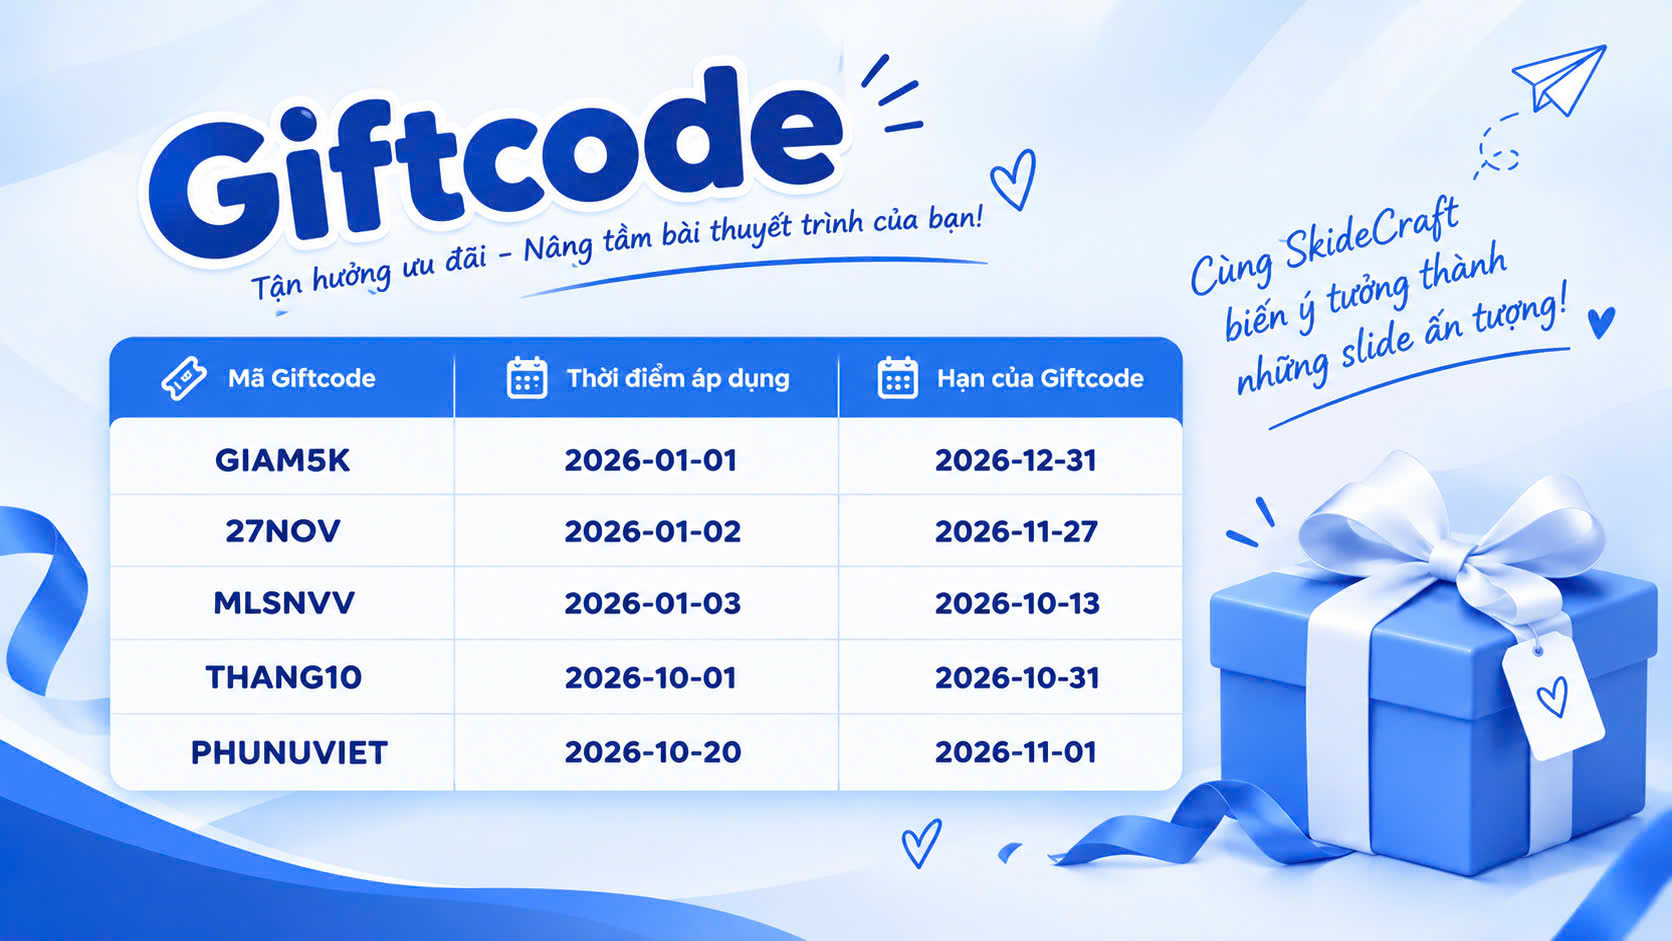
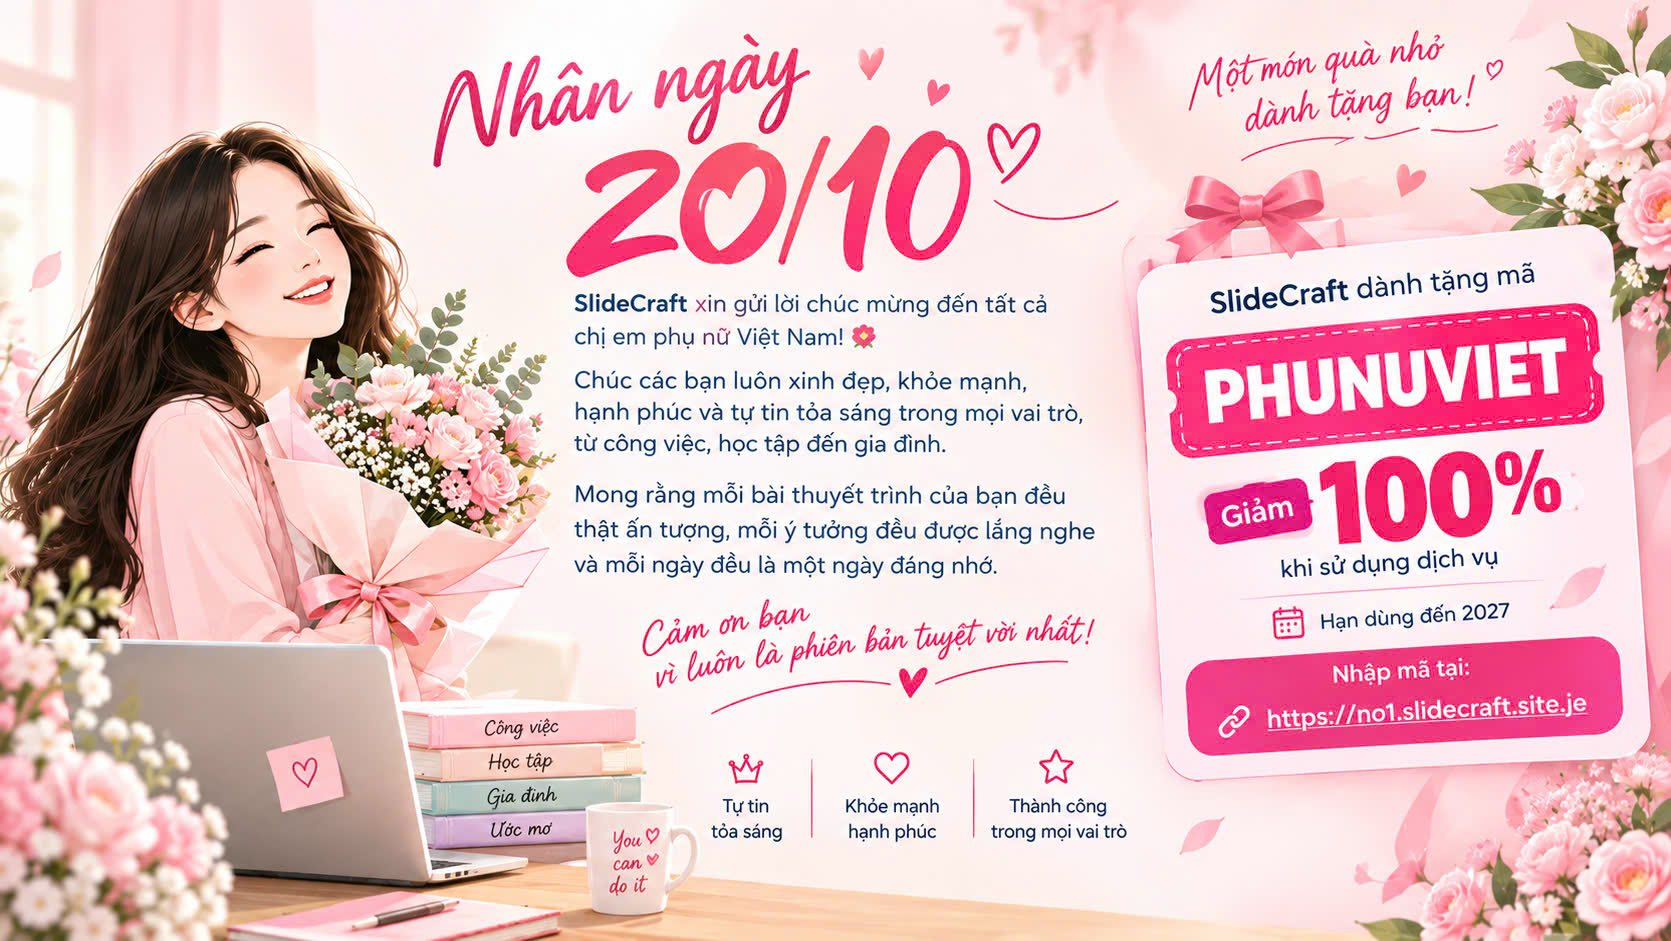
Add files via upload

diff --git a/index.html b/index.html
@@ -34,14 +34,12 @@ dialog{border:0;padding:0;background:transparent;max-width:none;max-height:none;
 #festiveDialog[open]{animation:fvIn .38s cubic-bezier(.2,.9,.3,1.1)}
 @keyframes fvIn{from{opacity:0;transform:translateY(18px) scale(.96)}to{opacity:1;transform:none}}
 .fv-box{position:relative;width:min(900px,calc(100vw - 24px));max-height:calc(100dvh - 24px);overflow-y:auto;overscroll-behavior:contain;background:#fff;border-radius:22px;box-shadow:0 30px 80px -10px rgba(190,24,93,.45);border:1px solid #fbcfe8}
-.fv-img{display:block;width:100%;height:auto;border-radius:22px 22px 0 0;cursor:pointer}
+.fv-img{display:block;width:100%;height:auto;border-radius:22px 22px 0 0}
 .fv-close{position:absolute;top:10px;right:10px;width:40px;height:40px;border-radius:50%;border:0;background:rgba(255,255,255,.92);color:#9d174d;font-size:1.5rem;line-height:1;cursor:pointer;box-shadow:0 4px 14px rgba(0,0,0,.18);display:flex;align-items:center;justify-content:center;transition:transform .18s,background-color .18s}
 .fv-close:hover{transform:scale(1.08);background:#fff}
-.fv-foot{display:flex;align-items:center;justify-content:space-between;gap:12px 20px;flex-wrap:wrap;padding:14px 20px;background:linear-gradient(135deg,#fff1f7,#ffe4f0)}
+.fv-foot{display:flex;align-items:center;justify-content:center;padding:12px 20px;background:linear-gradient(135deg,#fff1f7,#ffe4f0)}
 .fv-skip{display:flex;align-items:center;gap:8px;color:#9d174d;font-size:.9rem;cursor:pointer}
 .fv-skip input{width:17px;height:17px;accent-color:#ec4899}
-.fv-cta{background:linear-gradient(135deg,#ec4899,#e11d6a);color:#fff;box-shadow:0 10px 26px #e11d6a40}
-@media(max-width:560px){.fv-foot{flex-direction:column-reverse;align-items:stretch;text-align:center}.fv-skip{justify-content:center}.fv-cta{width:100%}}
 @media(prefers-reduced-motion:reduce){#festiveDialog[open]{animation:none}}
 </style>
 </head>
@@ -77,11 +75,11 @@ dialog{border:0;padding:0;background:transparent;max-width:none;max-height:none;
 </div>
 <div class="total-box"><div class="total-row"><span>Giá tạm tính:</span><strong id="initialTotal">5.000đ</strong></div><div class="total-row" id="discountRow" hidden><span>Giảm giá:</span><strong id="discountAmount">0đ</strong></div><div class="total-row final"><span>Thành tiền dự kiến:</span><strong id="finalTotal">5.000đ</strong></div></div>
 <p class="notice">Giá hiển thị là giá dự kiến. Vui lòng chờ email xác nhận trước khi thanh toán.</p><button class="btn primary submit-btn" type="submit" id="submitBtn">Gửi yêu cầu đặt hàng</button><div class="error" id="error" role="alert" tabindex="-1"></div><div class="success" id="success" role="status" tabindex="-1"></div></form></div></dialog>
-<dialog id="festiveDialog" aria-label="Ưu đãi 20/10 - mã PHUNUVIET">
+<dialog id="festiveDialog" aria-label="Thông báo ưu đãi">
 <div class="fv-box">
 <button type="button" class="fv-close" id="fvClose" aria-label="Đóng quảng cáo">&times;</button>
-<img class="fv-img" id="fvImg" src="festival-2010.jpg" width="1671" height="941" alt="Nhân ngày 20/10, SlideCraft tặng mã PHUNUVIET giảm 100% khi sử dụng dịch vụ, hạn dùng đến 2027">
-<div class="fv-foot"><label class="fv-skip"><input type="checkbox" id="fvSkip"><span>Không hiện lại hôm nay</span></label><button type="button" class="btn fv-cta" id="fvCta">🎁 Dùng mã PHUNUVIET ngay</button></div>
+<img class="fv-img" id="fvImg" src="festival-2010.jpg" width="1671" height="941" alt="Thông báo ưu đãi từ SlideCraft">
+<div class="fv-foot"><label class="fv-skip"><input type="checkbox" id="fvSkip"><span>Không hiện lại hôm nay</span></label></div>
 </div>
 </dialog>
 <script>
@@ -203,20 +201,12 @@ renderPackages();$('package').value='Chuyên nghiệp';$('slides').min=1;$('slid
 
 /* ===== Festive dialog 20/10 ===== */
 (()=>{
- const FV={code:'PHUNUVIET',delay:1200,hideKey:'sc_fv_2010_hidden_until',endDate:'2027-12-31T23:59:59'};
+ const FV={delay:1200,hideKey:'sc_fv_2010_hidden_until',endDate:'2027-12-31T23:59:59'};
  const pop=$('festiveDialog');if(!pop||new Date()>new Date(FV.endDate))return;
  const store={get(){try{return Number(localStorage.getItem(FV.hideKey))||0}catch(e){return 0}},set(v){try{localStorage.setItem(FV.hideKey,String(v))}catch(e){}}};
  function endOfToday(){const d=new Date();d.setHours(23,59,59,999);return d.getTime()}
  function closeFv(){if($('fvSkip').checked)store.set(endOfToday());if(pop.open)pop.close()}
- function useCode(){
-  closeFv();
-  openOrder('Chuyên nghiệp');
-  $('giftcode').value=FV.code;
-  applyGiftcode();
- }
  $('fvClose').addEventListener('click',closeFv);
- $('fvCta').addEventListener('click',useCode);
- $('fvImg').addEventListener('click',useCode);
  pop.addEventListener('click',e=>{if(e.target===pop)closeFv()});
  if(store.get()>Date.now())return;
  setTimeout(()=>{if(!dialog.open&&!pop.open)pop.showModal()},FV.delay);
